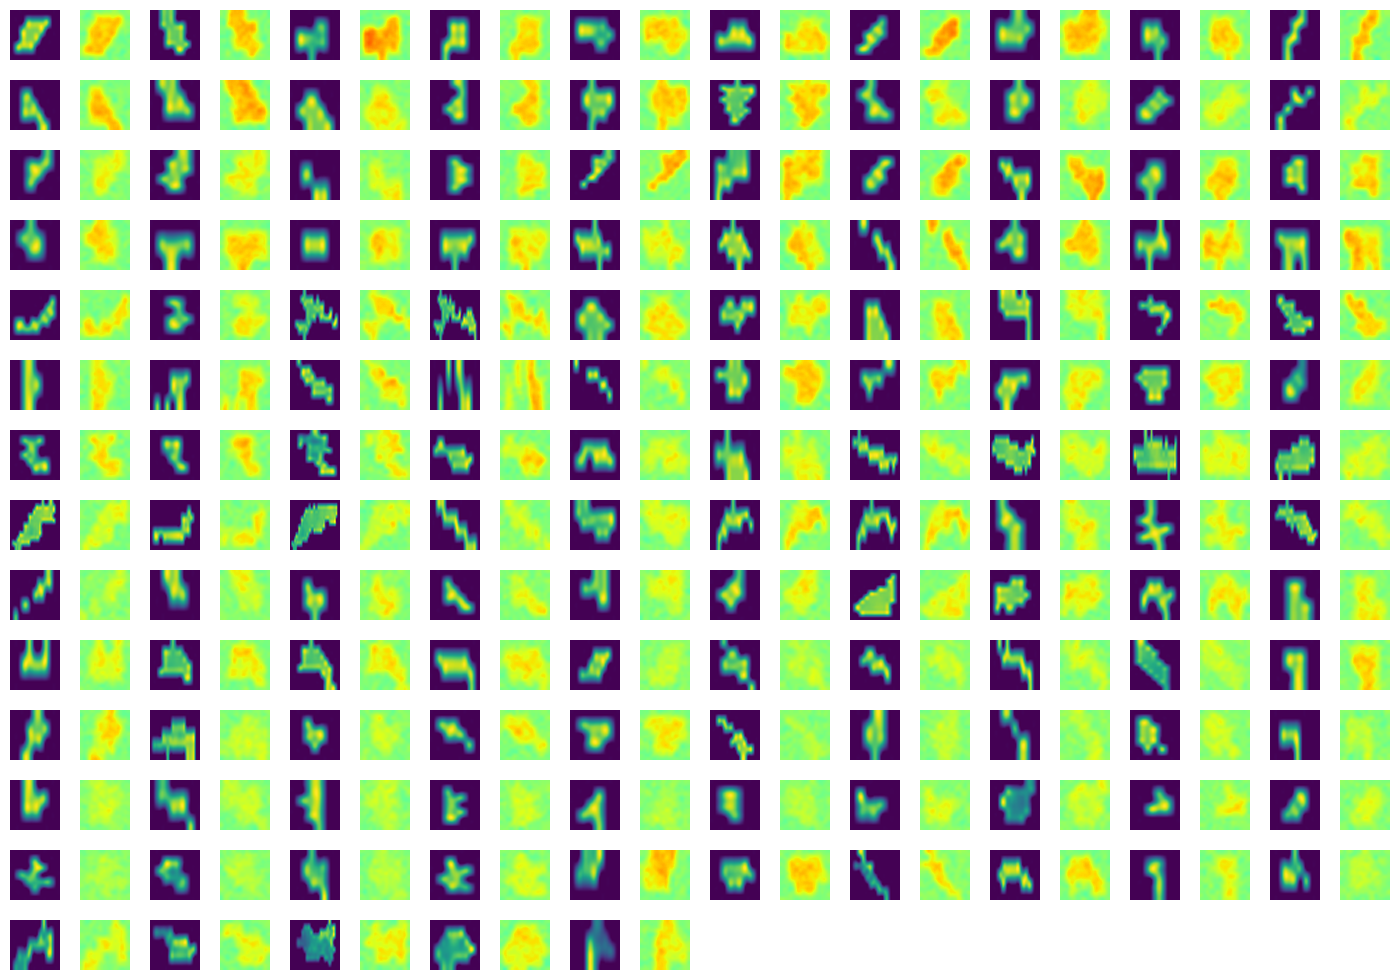
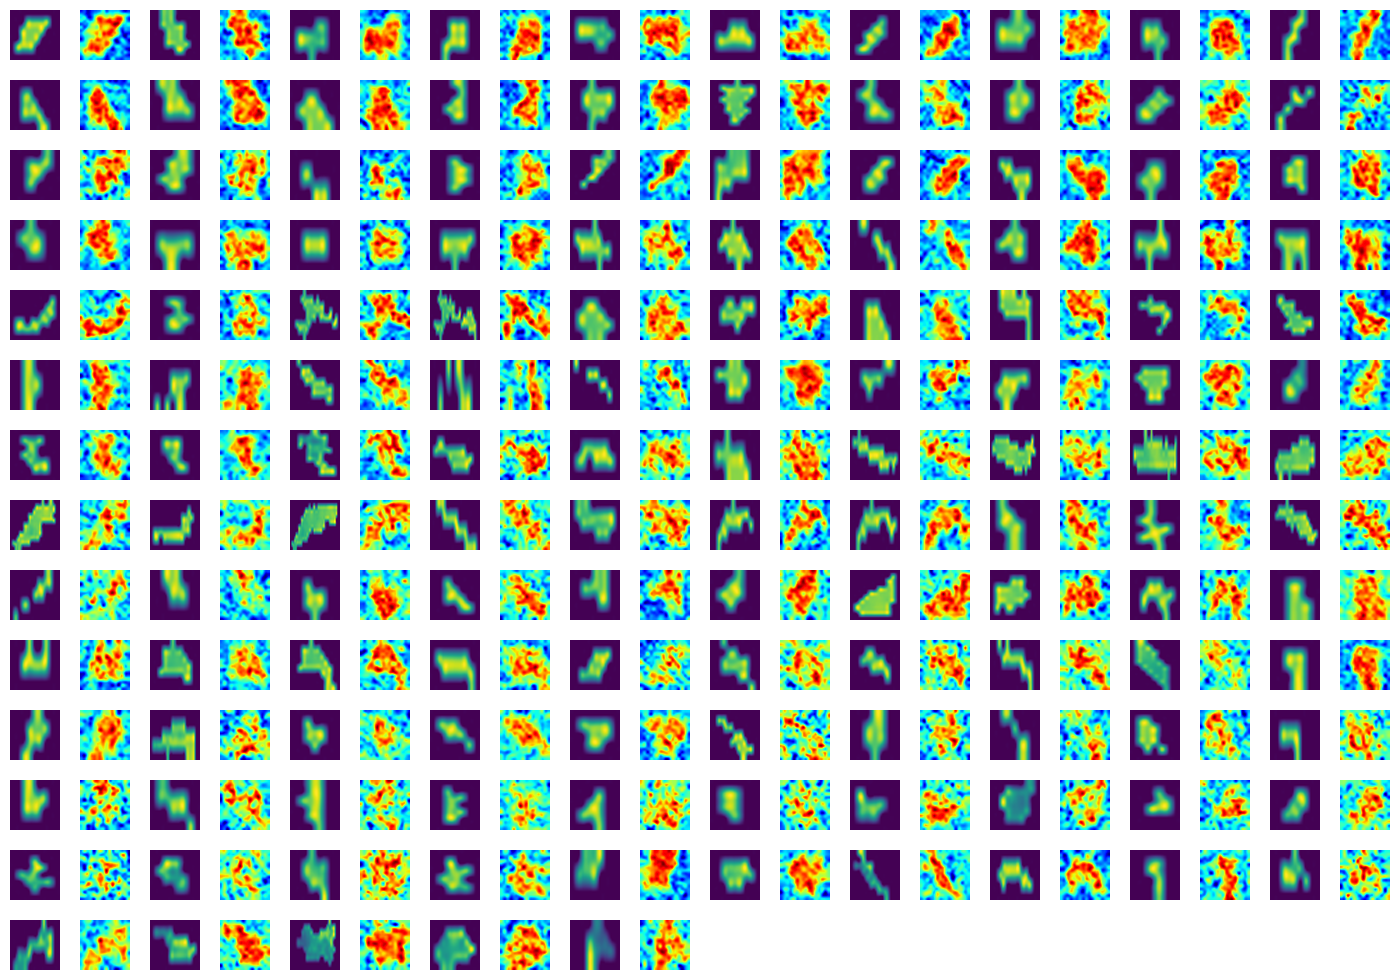
adding plot

diff --git a/src/analyse_results_NSE_basins.py b/src/analyse_results_NSE_basins.py
@@ -320,8 +320,8 @@ def create_class_activation_maps_explainable(checkpoint_path):
         # image_basin = cmap_image_precip(image_basin[:, :, :3])
         image_activation = cv2.resize(activation_map[0].cpu().numpy().mean(axis=0), (50, 50),
                                       interpolation=cv2.INTER_CUBIC)
-        # image_activation = ((image_activation - image_activation.min())
-        #                     / (image_activation.max() - image_activation.min()))
+        image_activation = ((image_activation - image_activation.min())
+                            / (image_activation.max() - image_activation.min()))
         image_activation = (255 * (cmap_image_activation(image_activation)[:, :, :3])).astype(np.uint8)
         opacity = 0.7
         overlay = (opacity * image_basin + (1 - opacity) * image_activation)
@@ -351,7 +351,7 @@ def main():
     plt.rc('font', size=12)
     plot_lon_lat_on_world_map("17775252_17782018_17828539_17832148_17837642.csv")
     create_class_activation_maps_explainable("../checkpoints/TWO_LSTM_CNN_LSTM_epoch_number_30_size_above_1000.pt")
-    # create_integrated_gradients("../checkpoints/TWO_LSTM_CNN_LSTM_epoch_number_30_size_above_1000.pt")
+    create_integrated_gradients("../checkpoints/TWO_LSTM_CNN_LSTM_epoch_number_30_size_above_1000.pt")
     analyse_features("17775252_17782018_17828539_17832148_17837642.csv", "random_forest", with_std=True)
 
 

diff --git a/src/create_CDF_NSE_comparison_plot_from_slurm_output.py b/src/create_CDF_NSE_comparison_plot_from_slurm_output.py
@@ -150,7 +150,7 @@ def calc_dicts_from_all_runs_and_all_files(input_file_paths):
 
 def plot_NSE_CDF_graphs_my_code():
     input_file_names = ["slurm-17775252.out", "slurm-17782018.out", "slurm-17828539.out", "slurm-17832148.out",
-                        "slurm-17837642.out", "slurm-18270685.out"]
+                        "slurm-17837642.out", "slurm-18299261.out"]
     input_file_paths = [Path(f"../slurm_output_files/slurm_files_ensemble_comparison/{file_name}").resolve() for
                         file_name in input_file_names]
     dict_all_runs_from_all_files, dict_avg_runs_from_all_files = calc_dicts_from_all_runs_and_all_files(
